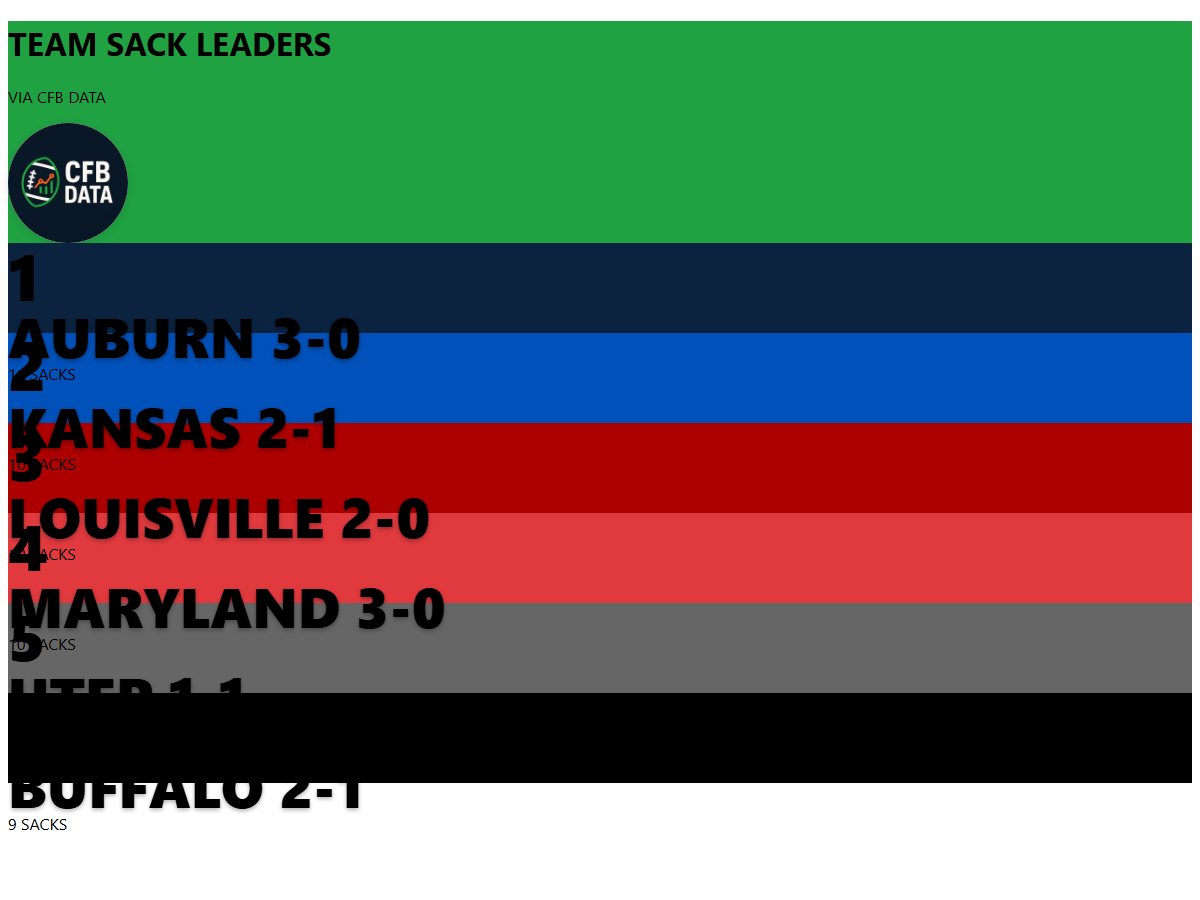
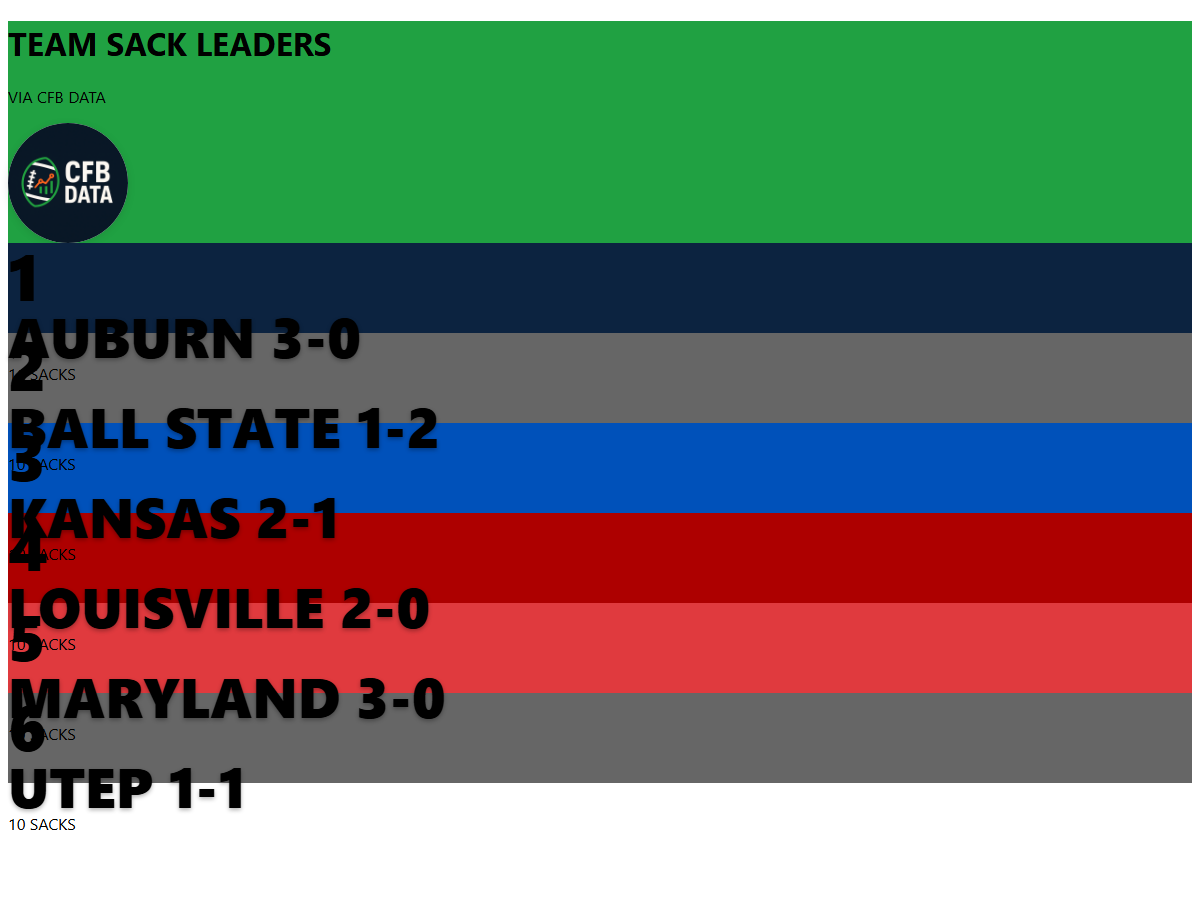
db

diff --git a/graphics/output/cfbd-sacks-2025.html b/graphics/output/cfbd-sacks-2025.html
@@ -100,44 +100,44 @@
                     <div class="text-white text-5xl font-bold">11 SACKS</div>
                 </div>
 <!-- Team 2 -->
-                <div class="team-bar rounded-lg flex items-center px-8 shadow-lg" style="background-color: #0051BA">
+                <div class="team-bar rounded-lg flex items-center px-8 shadow-lg" style="background-color: #666666">
                     <div class="rank-number text-white mr-8">2</div>
+                    <div class="flex-1">
+                        <div class="team-name text-white">BALL STATE <span class="text-3xl font-bold">1-2</span></div>
+                    </div>
+                    <div class="text-white text-5xl font-bold">10 SACKS</div>
+                </div>
+<!-- Team 3 -->
+                <div class="team-bar rounded-lg flex items-center px-8 shadow-lg" style="background-color: #0051BA">
+                    <div class="rank-number text-white mr-8">3</div>
                     <div class="flex-1">
                         <div class="team-name text-white">KANSAS <span class="text-3xl font-bold">2-1</span></div>
                     </div>
                     <div class="text-white text-5xl font-bold">10 SACKS</div>
                 </div>
-<!-- Team 3 -->
+<!-- Team 4 -->
                 <div class="team-bar rounded-lg flex items-center px-8 shadow-lg" style="background-color: #AD0000">
-                    <div class="rank-number text-white mr-8">3</div>
+                    <div class="rank-number text-white mr-8">4</div>
                     <div class="flex-1">
                         <div class="team-name text-white">LOUISVILLE <span class="text-3xl font-bold">2-0</span></div>
                     </div>
                     <div class="text-white text-5xl font-bold">10 SACKS</div>
                 </div>
-<!-- Team 4 -->
+<!-- Team 5 -->
                 <div class="team-bar rounded-lg flex items-center px-8 shadow-lg" style="background-color: #E03A3E">
-                    <div class="rank-number text-white mr-8">4</div>
+                    <div class="rank-number text-white mr-8">5</div>
                     <div class="flex-1">
                         <div class="team-name text-white">MARYLAND <span class="text-3xl font-bold">3-0</span></div>
                     </div>
                     <div class="text-white text-5xl font-bold">10 SACKS</div>
                 </div>
-<!-- Team 5 -->
+<!-- Team 6 -->
                 <div class="team-bar rounded-lg flex items-center px-8 shadow-lg" style="background-color: #666666">
-                    <div class="rank-number text-white mr-8">5</div>
+                    <div class="rank-number text-white mr-8">6</div>
                     <div class="flex-1">
                         <div class="team-name text-white">UTEP <span class="text-3xl font-bold">1-1</span></div>
                     </div>
                     <div class="text-white text-5xl font-bold">10 SACKS</div>
-                </div>
-<!-- Team 6 -->
-                <div class="team-bar rounded-lg flex items-center px-8 shadow-lg" style="background-color: #000000">
-                    <div class="rank-number text-white mr-8">6</div>
-                    <div class="flex-1">
-                        <div class="team-name text-white">BUFFALO <span class="text-3xl font-bold">2-1</span></div>
-                    </div>
-                    <div class="text-white text-5xl font-bold">9 SACKS</div>
                 </div>
             </div>
         </div>

diff --git a/index.html b/index.html
@@ -177,25 +177,25 @@ async function load() {
 
 // Graphics configuration
 const teamGraphics = [
-  { file: 'graphics/output/cfbd-rushingYards-2025.png', title: 'Rushing Yards Leaders', category: 'Offense' },
-  { file: 'graphics/output/cfbd-netPassingYards-2025.png', title: 'Passing Yards Leaders', category: 'Offense' },
-  { file: 'graphics/output/cfbd-totalYards-2025.png', title: 'Total Offense Leaders', category: 'Offense' },
-  { file: 'graphics/output/cfbd-sacks-2025.png', title: 'Sack Leaders', category: 'Defense' },
-  { file: 'graphics/output/cfbd-totalYardsOpponent-2025.png', title: 'Defense Leaders', category: 'Defense' },
-  { file: 'graphics/output/cfbd-possessionTime-2025.png', title: 'Possession Time Leaders', category: 'Special' },
-  { file: 'graphics/output/cfbd-thirdDownConversions-2025.png', title: '3rd Down Conversion Leaders', category: 'Special' },
-  { file: 'graphics/output/cfbd-penaltyYards-2025.png', title: 'Penalty Yards Leaders', category: 'Special' },
-  { file: 'graphics/output/cfbd-turnoversOpponent-2025.png', title: 'Turnovers Forced Leaders', category: 'Defense' }
+  { file: 'cfbd-rushingYards-2025.png', title: 'Rushing Yards Leaders', category: 'Offense' },
+  { file: 'cfbd-netPassingYards-2025.png', title: 'Passing Yards Leaders', category: 'Offense' },
+  { file: 'cfbd-totalYards-2025.png', title: 'Total Offense Leaders', category: 'Offense' },
+  { file: 'cfbd-sacks-2025.png', title: 'Sack Leaders', category: 'Defense' },
+  { file: 'cfbd-totalYardsOpponent-2025.png', title: 'Defense Leaders', category: 'Defense' },
+  { file: 'cfbd-possessionTime-2025.png', title: 'Possession Time Leaders', category: 'Special' },
+  { file: 'cfbd-thirdDownConversions-2025.png', title: '3rd Down Conversion Leaders', category: 'Special' },
+  { file: 'cfbd-penaltyYards-2025.png', title: 'Penalty Yards Leaders', category: 'Special' },
+  { file: 'cfbd-turnoversOpponent-2025.png', title: 'Turnovers Forced Leaders', category: 'Defense' }
 ];
 
 const playerGraphics = [
-  { file: 'graphics/output/player-rushingYards-2025.png', title: 'Rushing Yards Leaders', category: 'Offense' },
-  { file: 'graphics/output/player-rushingTDs-2025.png', title: 'Rushing TD Leaders', category: 'Offense' },
-  { file: 'graphics/output/player-passingYards-2025.png', title: 'Passing Yards Leaders', category: 'Offense' },
-  { file: 'graphics/output/player-passingTDs-2025.png', title: 'Passing TD Leaders', category: 'Offense' },
-  { file: 'graphics/output/player-receivingYards-2025.png', title: 'Receiving Yards Leaders', category: 'Offense' },
-  { file: 'graphics/output/player-receivingTDs-2025.png', title: 'Receiving TD Leaders', category: 'Offense' },
-  { file: 'graphics/output/player-sacks-2025.png', title: 'Sack Leaders', category: 'Defense' }
+  { file: 'player-rushingYards-2025.png', title: 'Rushing Yards Leaders', category: 'Offense' },
+  { file: 'player-rushingTDs-2025.png', title: 'Rushing TD Leaders', category: 'Offense' },
+  { file: 'player-passingYards-2025.png', title: 'Passing Yards Leaders', category: 'Offense' },
+  { file: 'player-passingTDs-2025.png', title: 'Passing TD Leaders', category: 'Offense' },
+  { file: 'player-receivingYards-2025.png', title: 'Receiving Yards Leaders', category: 'Offense' },
+  { file: 'player-receivingTDs-2025.png', title: 'Receiving TD Leaders', category: 'Offense' },
+  { file: 'player-sacks-2025.png', title: 'Sack Leaders', category: 'Defense' }
 ];
 
 // Load graphics
